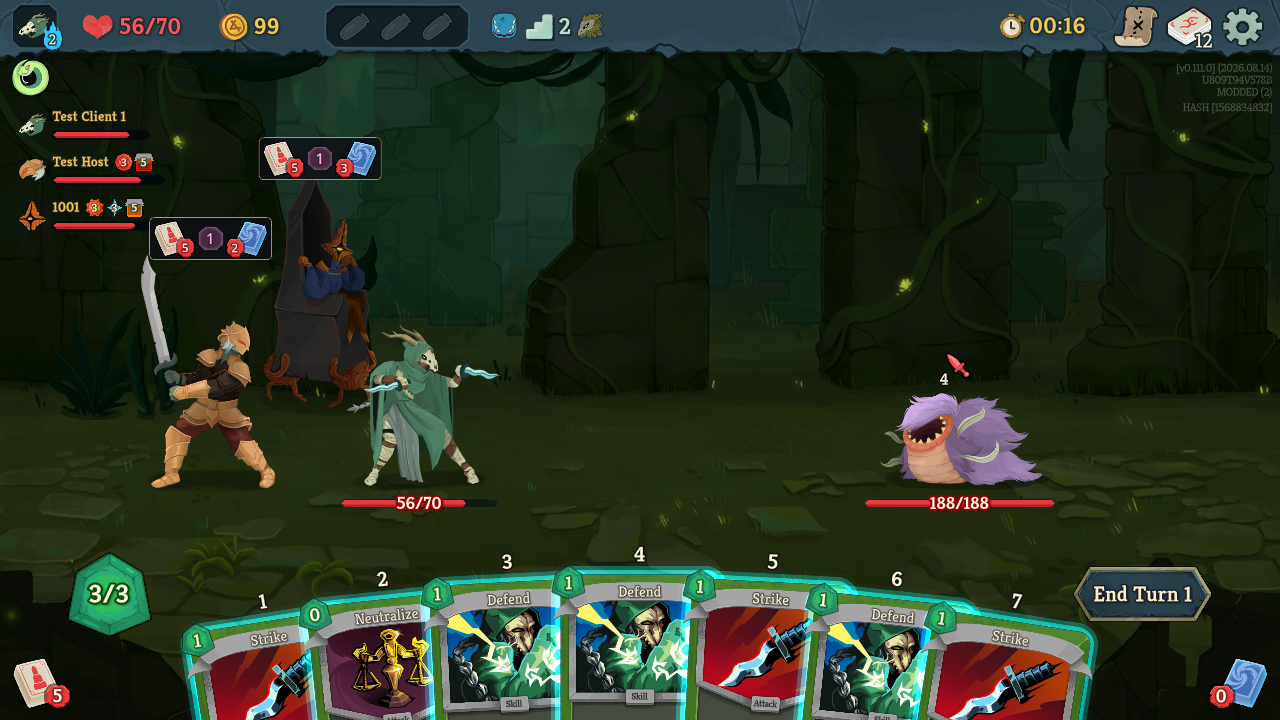
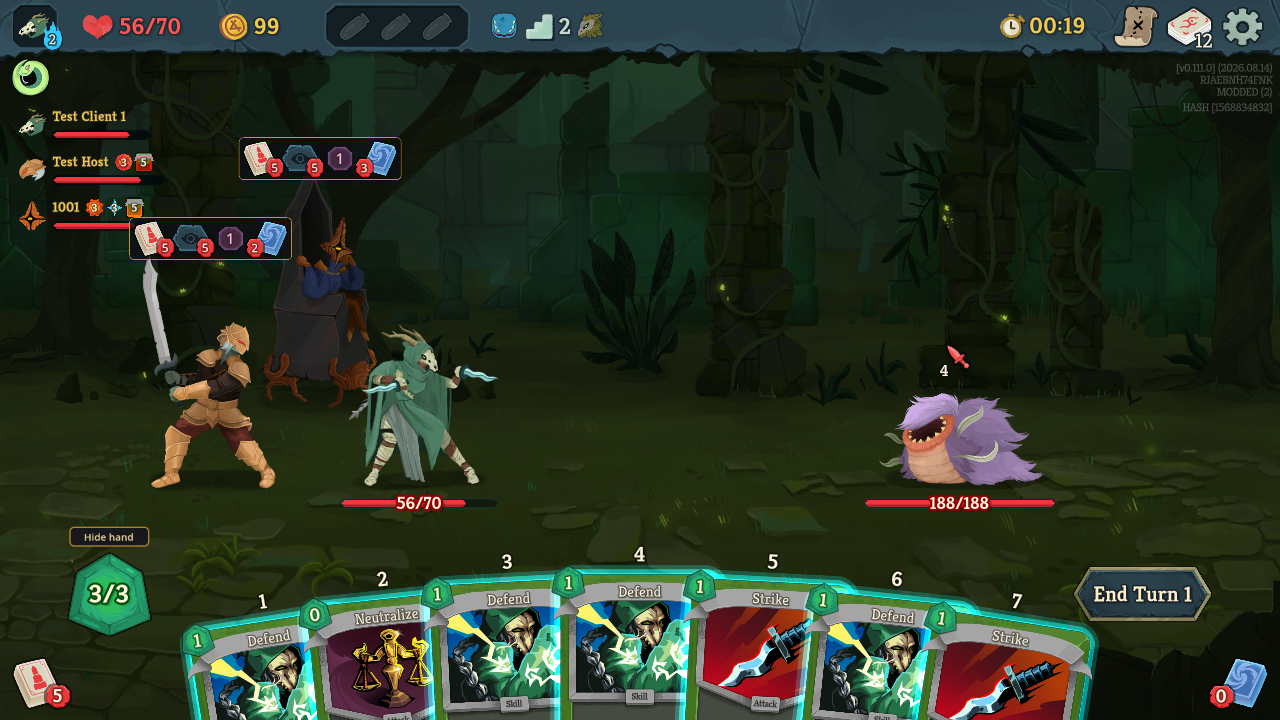
README/Workshop screenshots: 4-slot strips and Hand Viewer; showcase shots 4-5

diff --git a/src/AutoTest.cs b/src/AutoTest.cs
@@ -104,6 +104,26 @@ public static class AutoTest
         await Wait(1.5);
         Log("SHOT 3 " + PileViewer.DescribeOpenView());
         await Wait(6.0);
+        PileViewer.OpenTeammatePile(0, PileType.Discard); // close it
+        await Wait(1.0);
+
+        // Hand Viewer: the teammate's hand behind yours, then your hand hidden with one of their cards in closeup.
+        HandViewer.ToggleTeammate(0);
+        await Wait(2.0);
+        Log("SHOT 4 " + HandViewer.DescribeCards());
+        await Wait(6.0);
+        HandViewer.ToggleHideOwnHand();
+        await Wait(1.0);
+        if (HandViewer.CardCenter(2) is Vector2 target)
+        {
+            var tree = (SceneTree)Engine.GetMainLoop();
+            Vector2 point = new Vector2(target.X, target.Y - 120f) * ((Vector2)DisplayServer.WindowGetSize() / tree.Root.GetVisibleRect().Size);
+            Input.ParseInputEvent(new InputEventMouseMotion { Position = point, GlobalPosition = point });
+        }
+        await Wait(1.5);
+        Log("SHOT 5 " + HandViewer.DescribeFocus());
+        await Wait(6.0);
+        HandViewer.ToggleHideOwnHand();
         Log("done");
     }
 

diff --git a/README.md b/README.md
@@ -1,6 +1,6 @@
 # Spire2 Pile Viewer
 
-Slay the Spire 2 co-op mod: see your teammates' draw, exhaust, and discard piles.
+Slay the Spire 2 co-op mod: see your teammates' draw, exhaust, and discard piles, and their hand.
 
 ![Strips above each teammate](assets/strips.png)
 
@@ -16,10 +16,15 @@ Slay the Spire 2 co-op mod: see your teammates' draw, exhaust, and discard piles
 ## Hand Viewer
 
 - Click the **eye** in a teammate's strip to show their hand *behind* yours, in shadow, using the game's own cards
-  (live costs and numbers from their Strength, Weak, enchantments, Snecko Eye, …). One teammate at a time.
+  (live costs and numbers from their Strength, Weak, enchantments, Snecko Eye, …). Cards glow when *they* could
+  play them (their energy; no glow once they've ended their turn). One teammate at a time.
 - **Hover** one of their cards for the game's normal closeup.
 - **Hide hand** (button above your energy; drag to move) hides your own hand so theirs is easy to read.
 - Optional hotkeys: per-teammate Hand toggle and Hide/show my hand (unbound by default; set them in F1).
+
+![Teammate's hand behind yours](assets/hand-viewer.png)
+
+![Your hand hidden, closeup of a teammate card](assets/hide-hand.png)
 
 ## Settings (F1)
 
